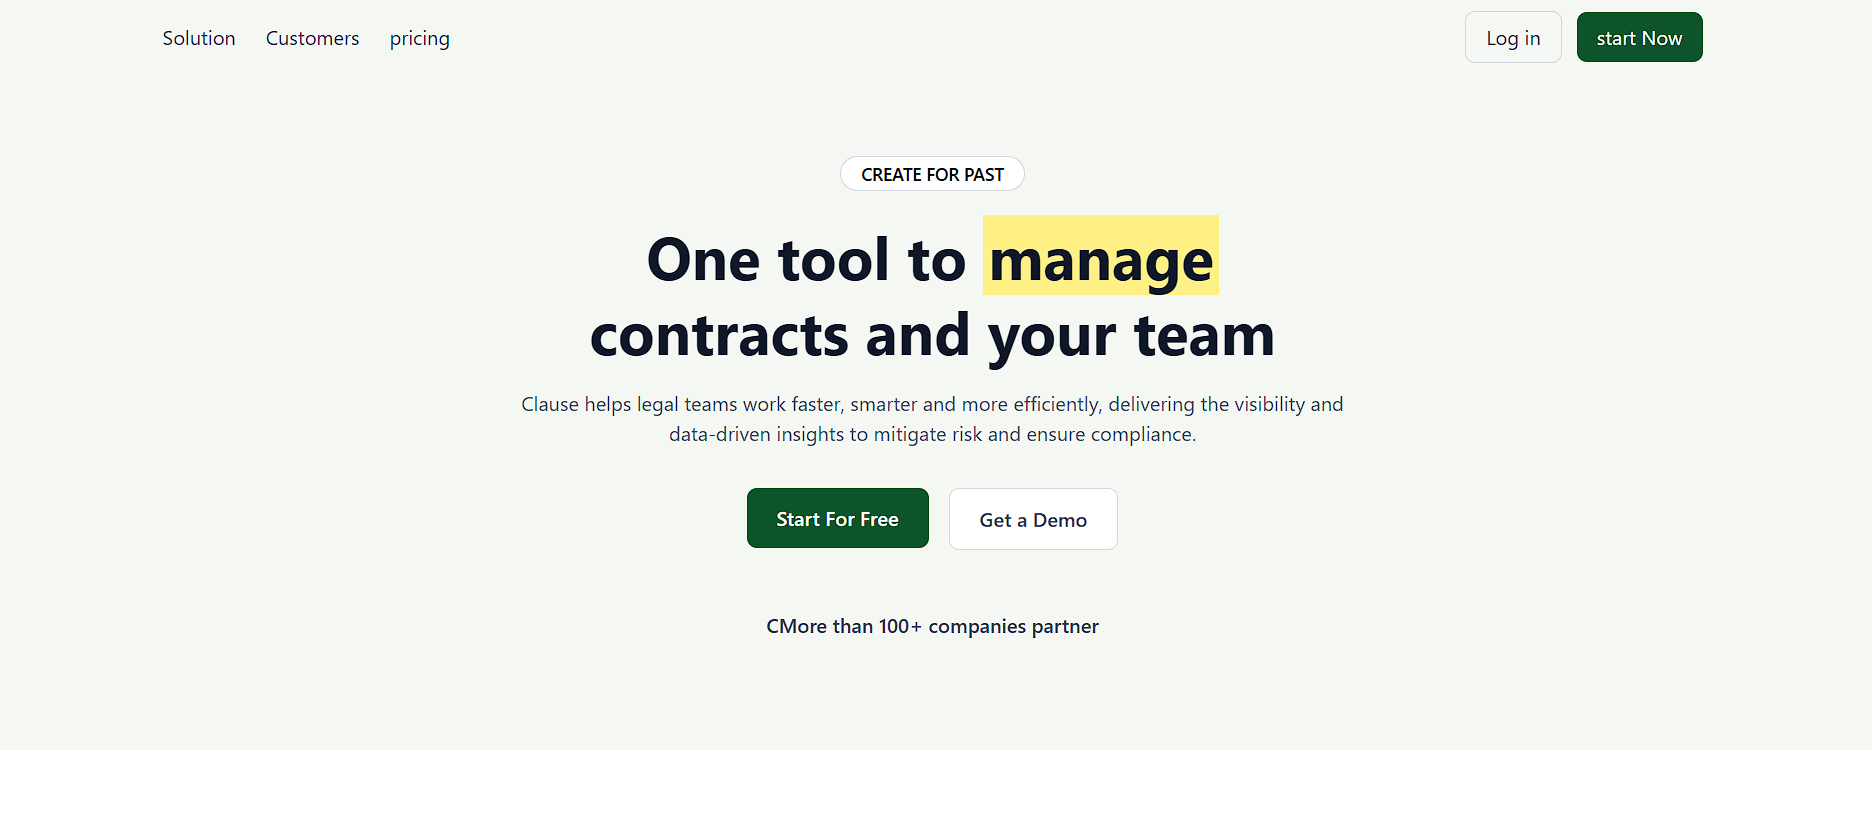
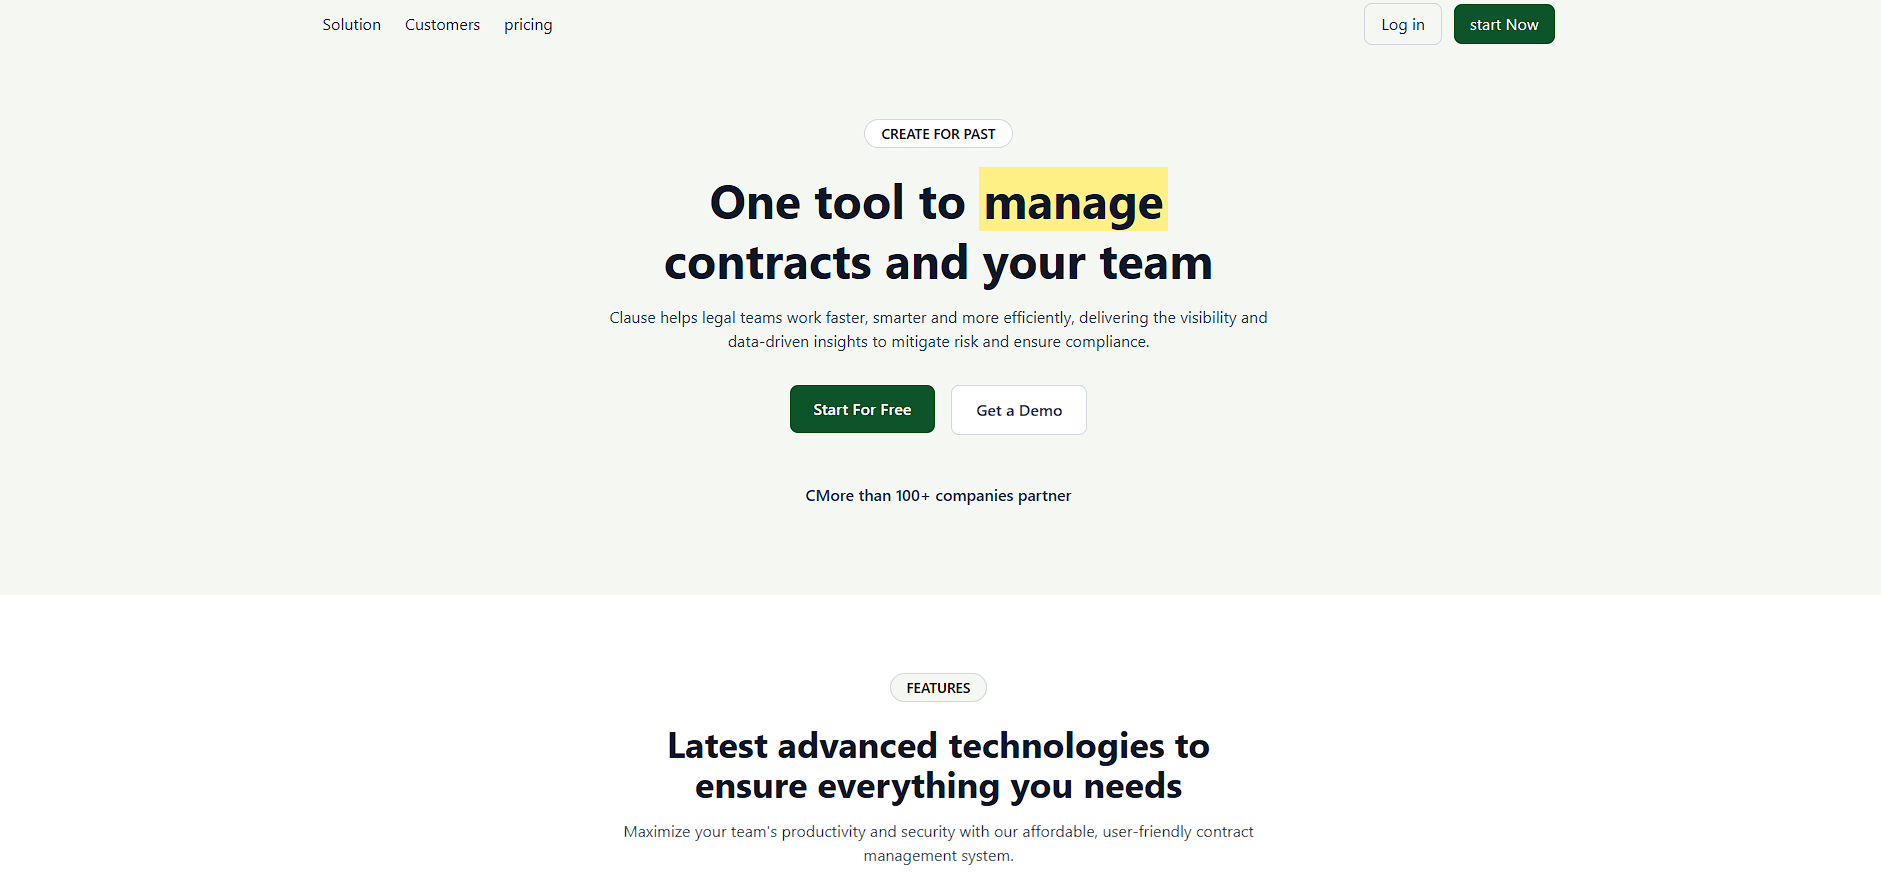
add project slicingdesain

diff --git a/src/Components/Layouts/Project_Section/Project_section.jsx b/src/Components/Layouts/Project_Section/Project_section.jsx
@@ -18,6 +18,8 @@ const Section_Project = () => {
         tailwind: { name: 'Tailwind CSS', icon: 'https://cdn.jsdelivr.net/gh/devicons/devicon@latest/icons/tailwindcss/tailwindcss-original.svg' },
         excel: { name: 'Excel', icon: '/img/excel.png' },
         lookerstudio: { name: 'Looker Studio', icon: '/img/lookerstudio.svg' },
+        figma: { name: 'Figma', icon: '/img/figma.png' },
+
     };
     const daisyuiIcon = 'https://img.daisyui.com/images/daisyui-logo/daisyui-logomark.svg';
 
@@ -26,7 +28,8 @@ const Section_Project = () => {
         {id:2, title:'Digital Idul Fitri & THR', teks:'Website seru-seruan buat ngucapin Selamat Idul Fitri. Nggak cuma banner ucapan biasa, di sini juga ada tombol rahasia yang isinya link Dana Kaget buat bagi-bagi THR beneran ke teman-teman!',img:'/img/idulFitri.png', stylingklik:'btn btn-outline btn-primary btn-sm sm:btn-md lg:btn-wide', kalimatButton:'Lihat Project', link:'https://idulfitri-nine.vercel.app/', stack: [stacksInfo.react, stacksInfo.tailwind, {name: 'DaisyUI', icon: daisyuiIcon}]},
          {id:3, title:'Visualisasi Peta Persebaran Gempa Di Jawa Barat ', teks:'Sebuah Project kelompok bersama temen-temen kuliah dengan tema visualisasi data gempa di Jawa Barat menggunakan data dump dari kaggle.com', img:'/img/peta.png', stylingklik:'btn btn-outline btn-primary btn-sm sm:btn-md lg:btn-wide', kalimatButton:'Lihat Project', link:'https://datastudio.google.com/s/qA_-MnGtm-Q', stack: [stacksInfo.lookerstudio, stacksInfo.excel]},
         {id:4, title:'App Patungan Makan', teks:'Suka pusing kalau habis nongkrong tapi bingung ngitung patungan? Nah, web app sederhana ini saya bikin khusus buat ngitung tagihan makan/nongkrong bareng supaya lebih cepat, gampang, dan adil.', img:'/img/Apppatungan.png', stylingklik:'btn btn-outline btn-primary btn-sm sm:btn-md lg:btn-wide', kalimatButton:'Lihat Project', link:'https://patunganapp.vercel.app/', stack: [stacksInfo.vue, stacksInfo.tailwind]},
-        {id:5, title:'Auto Random Color', teks:'Proyek iseng untuk belajar eksplorasi logika Javascript. Website ini langsung ngasih kombinasi warna-warna acak yang unik di layar cuma bermodal sekali klik. Simpel, tapi seru buat dilihat.', img:'/img/randomColor.png', stylingklik:'btn btn-outline btn-primary btn-sm sm:btn-md lg:btn-wide', kalimatButton:'Lihat Project', link:'https://auto-random-color.vercel.app/', stack: [stacksInfo.html, stacksInfo.css, stacksInfo.js]},
+         {id:5, title:'Slicing Desain', teks:'website dibuat ulang dengan desain yang lebih modern dan responsif dengan sumber dari desain yang saya dapat dari dribble', img:'/img/slicingdesain.png', stylingklik:'btn btn-outline btn-primary btn-sm sm:btn-md lg:btn-wide', kalimatButton:'Lihat Project', link:'https://slicing-website-two.vercel.app/', stack: [stacksInfo.vue, stacksInfo.tailwind]},
+        {id:6, title:'Auto Random Color', teks:'Proyek iseng untuk belajar eksplorasi logika Javascript. Website ini langsung ngasih kombinasi warna-warna acak yang unik di layar cuma bermodal sekali klik. Simpel, tapi seru buat dilihat.', img:'/img/randomColor.png', stylingklik:'btn btn-outline btn-primary btn-sm sm:btn-md lg:btn-wide', kalimatButton:'Lihat Project', link:'https://auto-random-color.vercel.app/', stack: [stacksInfo.html, stacksInfo.css, stacksInfo.js]},
     ]
 
     return (
